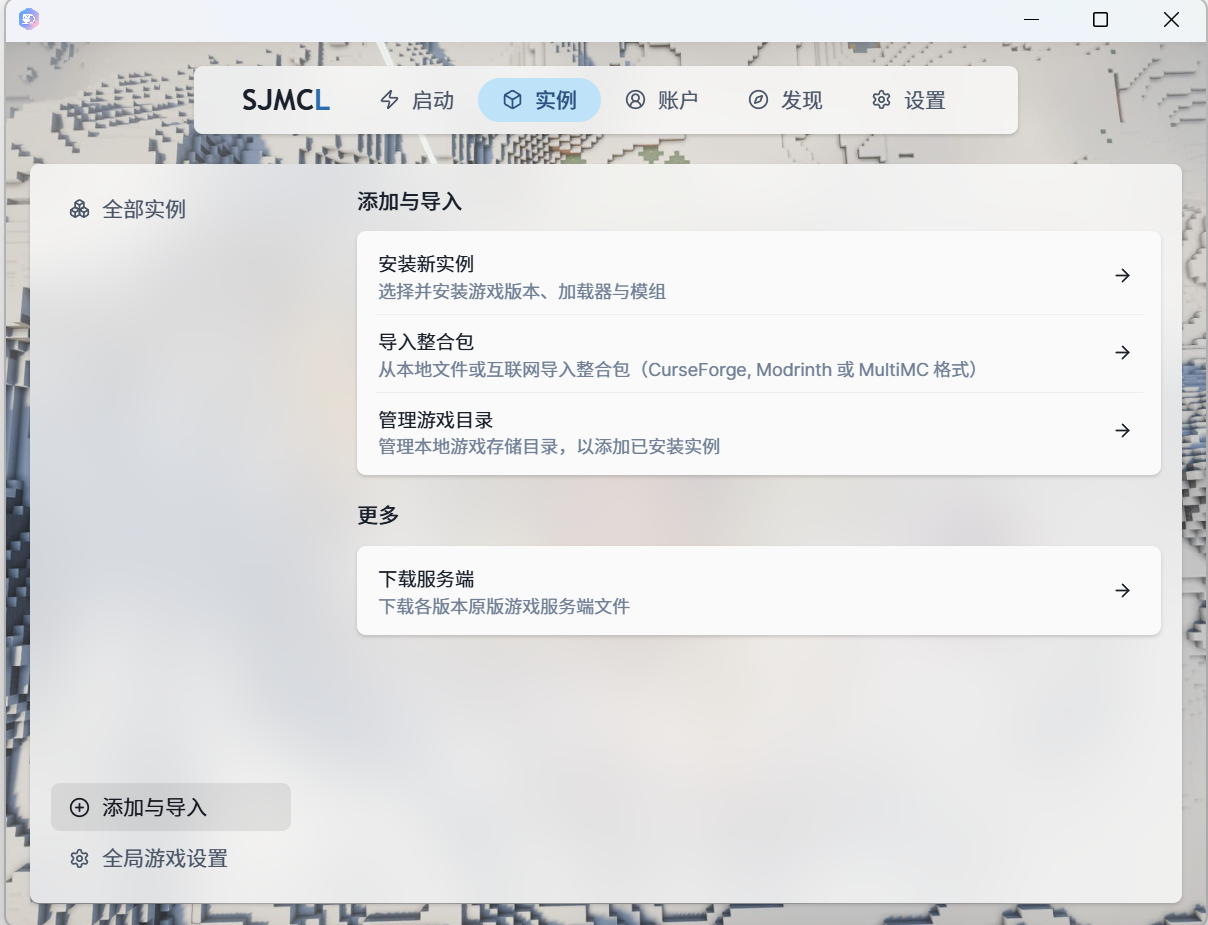
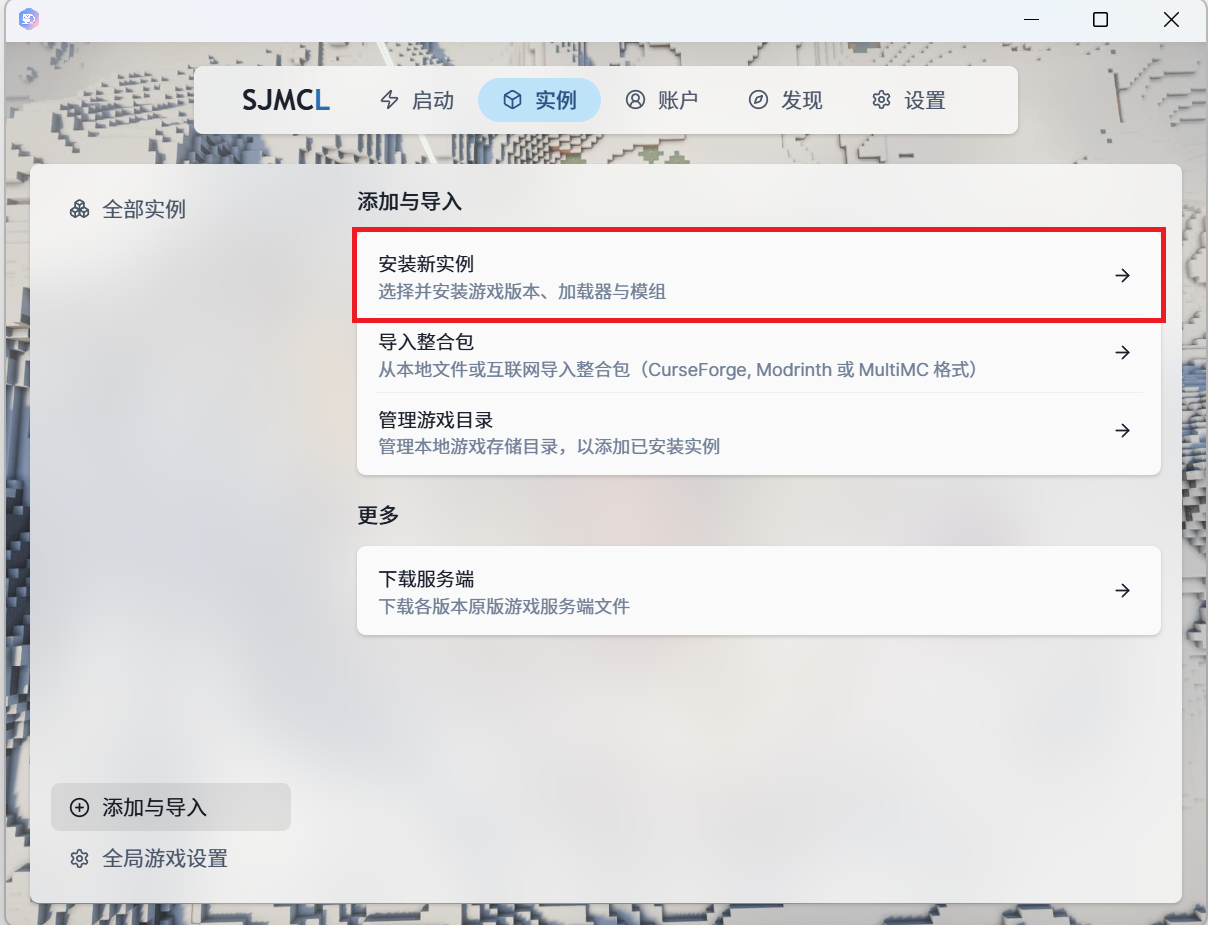
feat: add login account image and red guide boxes to beginners guide images

Changed region(s): [[0.2757, 0.2422, 0.9801, 0.3632]]

diff --git a/docs/zh-Hans/docs/beginners-guide.md b/docs/zh-Hans/docs/beginners-guide.md
@@ -10,7 +10,7 @@
 
 你可以在 [Minecraft 官方网站](https://www.minecraft.net/zh-hans/store/minecraft-java-bedrock-edition-pc) 或 [Xbox 商店](https://www.xbox.com/zh-cn/games/store/minecraft-java-bedrock-edition-for-pc/9NXP44L49SHJ) 购买游戏。
 
-完成购买后，在 SJMCL 主界面的顶部菜单点击 **账户**，然后点击右上角的 **添加角色** 登录 **微软角色**，或创建 **离线角色** 和 **第三方认证角色**。
+完成购买后，在 SJMCL 主界面的顶部菜单点击 **账户**，然后点击右上角的 **添加角色** 登录 **微软账户**，或创建 **离线角色** 和 **第三方认证角色**。
 
 你也可以从其他启动器 [导入账户]()。
 
